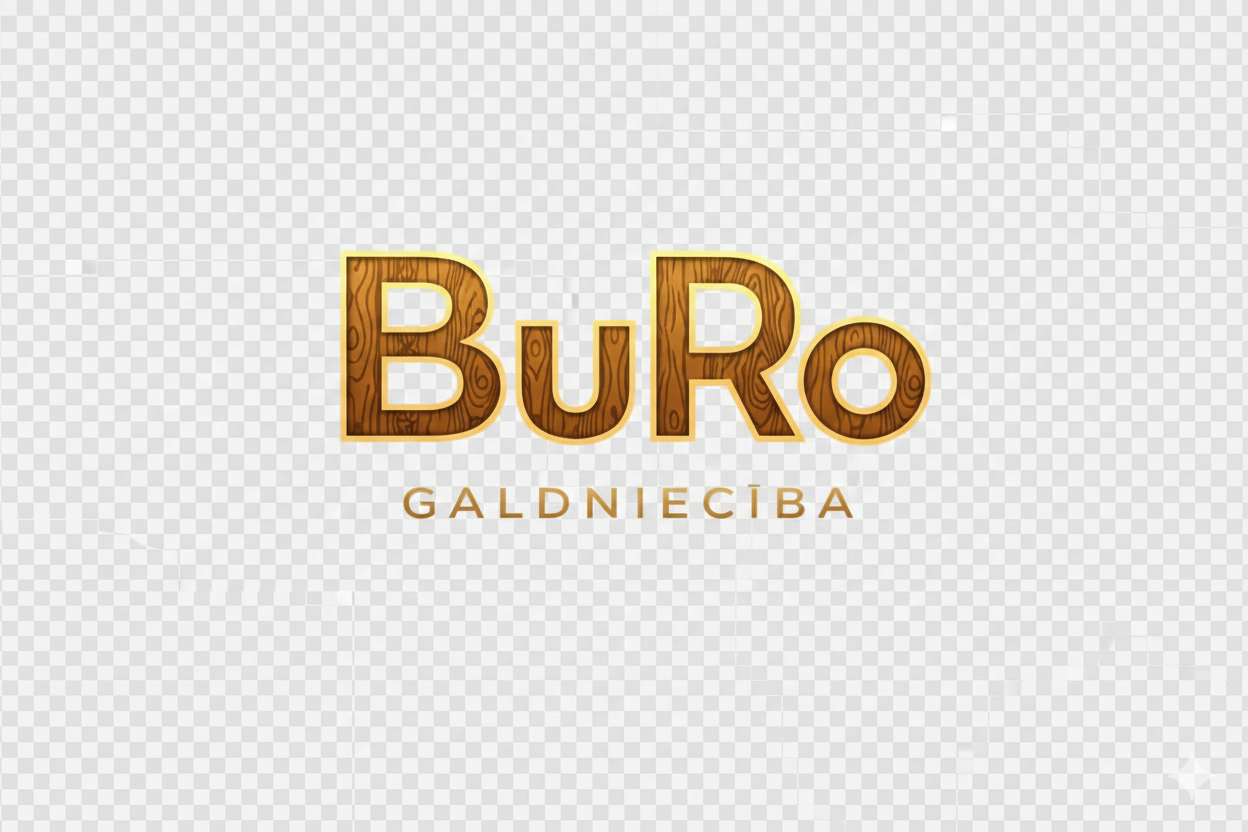
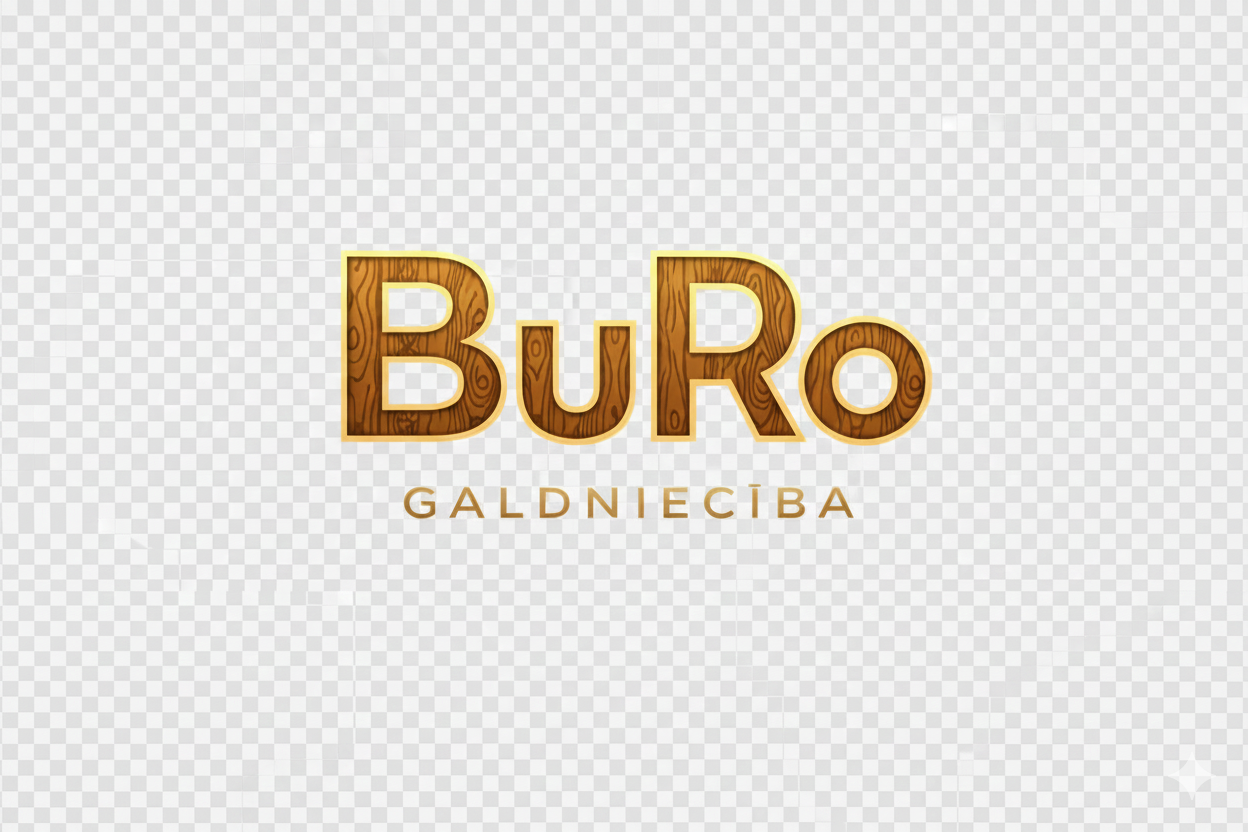
.

diff --git a/index.html b/index.html
@@ -15,7 +15,7 @@
             <div class="header-content">
                 <div class="logo">
                     <a href="#home" class="logo-link">
-                        <img src="19.png" alt="BURO logo" class="logo-img">
+                        <img src="20.png" alt="BURO logo" class="logo-img">
                     </a>
                 </div>
                 <ul class="nav-links">
